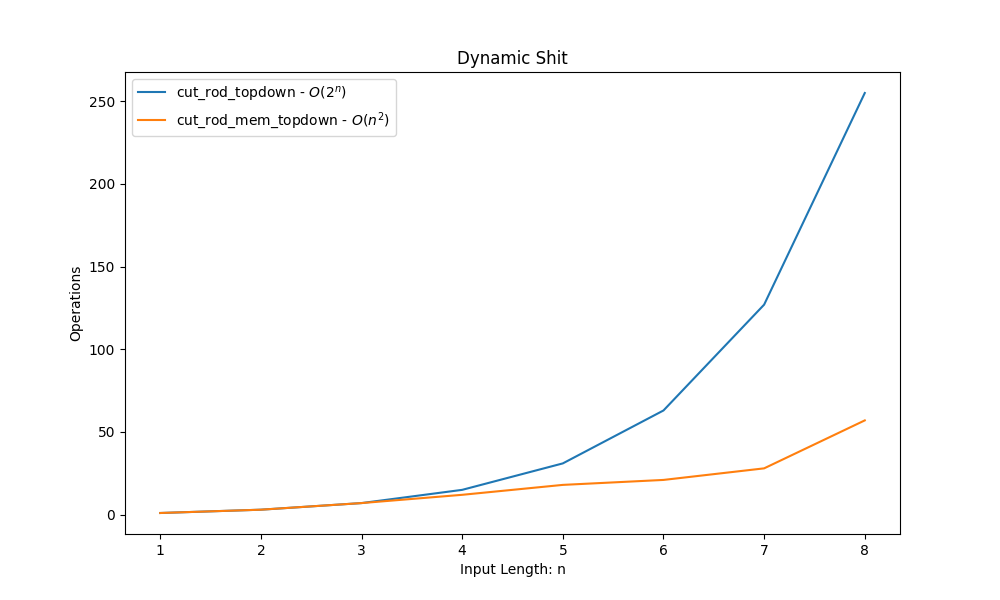
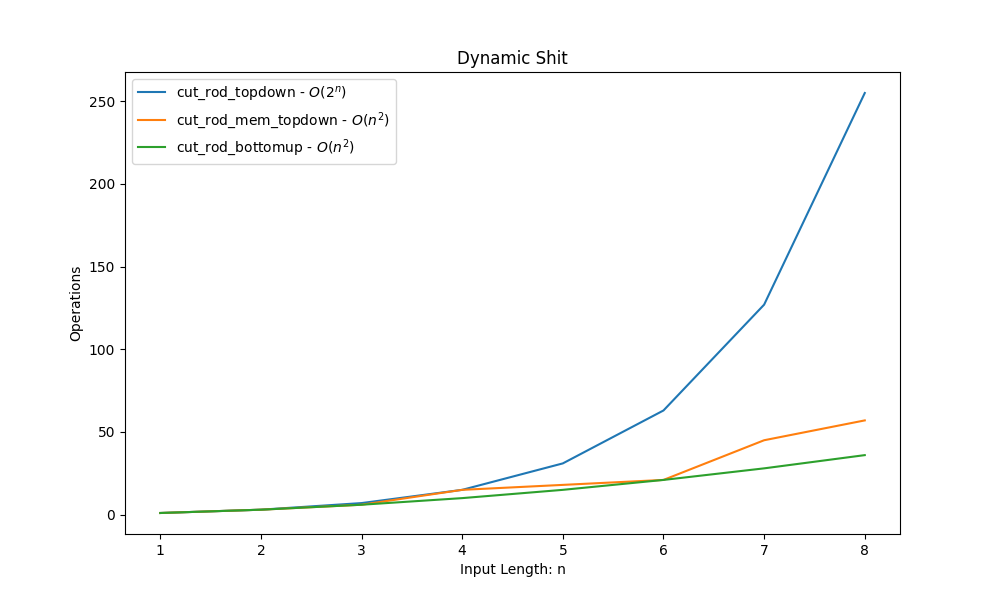
cut_rod_bottomup

diff --git a/DynamicProgramming/algorithms/cut_rod_bottomup.py b/DynamicProgramming/algorithms/cut_rod_bottomup.py
@@ -1,0 +1,17 @@
+from typing import List
+
+def cut_rod_bottomup(input: List[int], n: int=-1):
+    if n == -1: n = len(input)+1
+    memory = [0]*(n)
+
+    for i in range(len(memory)):
+        opt = -float('inf')
+
+        for j in range(i):
+            opt = max(opt, input[j] + memory[(i-j)-1])
+
+        memory[i] = opt if opt > 0 else 0
+
+    return memory[-1]
+
+

diff --git a/DynamicProgramming/README.md b/DynamicProgramming/README.md
@@ -11,6 +11,18 @@ README writed by: [MARKPLATE](https://github.com/cecinuga/markplate)
 **Cut Rod Mem Topdown - $\ O(None)$**
 -------------------------------------
 
+**Cut Rod Bottomup - $\ O(None)$**
+----------------------------------
+
+**Cut Rod Topdown - $\ O(2^n)$**
+--------------------------------
+
+**Cut Rod Mem Topdown - $\ O(None)$**
+-------------------------------------
+
+**Cut Rod Bottomup - $\ O(None)$**
+----------------------------------
+
 ![](./source/dynamicprogramming_complexity.png)Complexity Analysis
   
 
